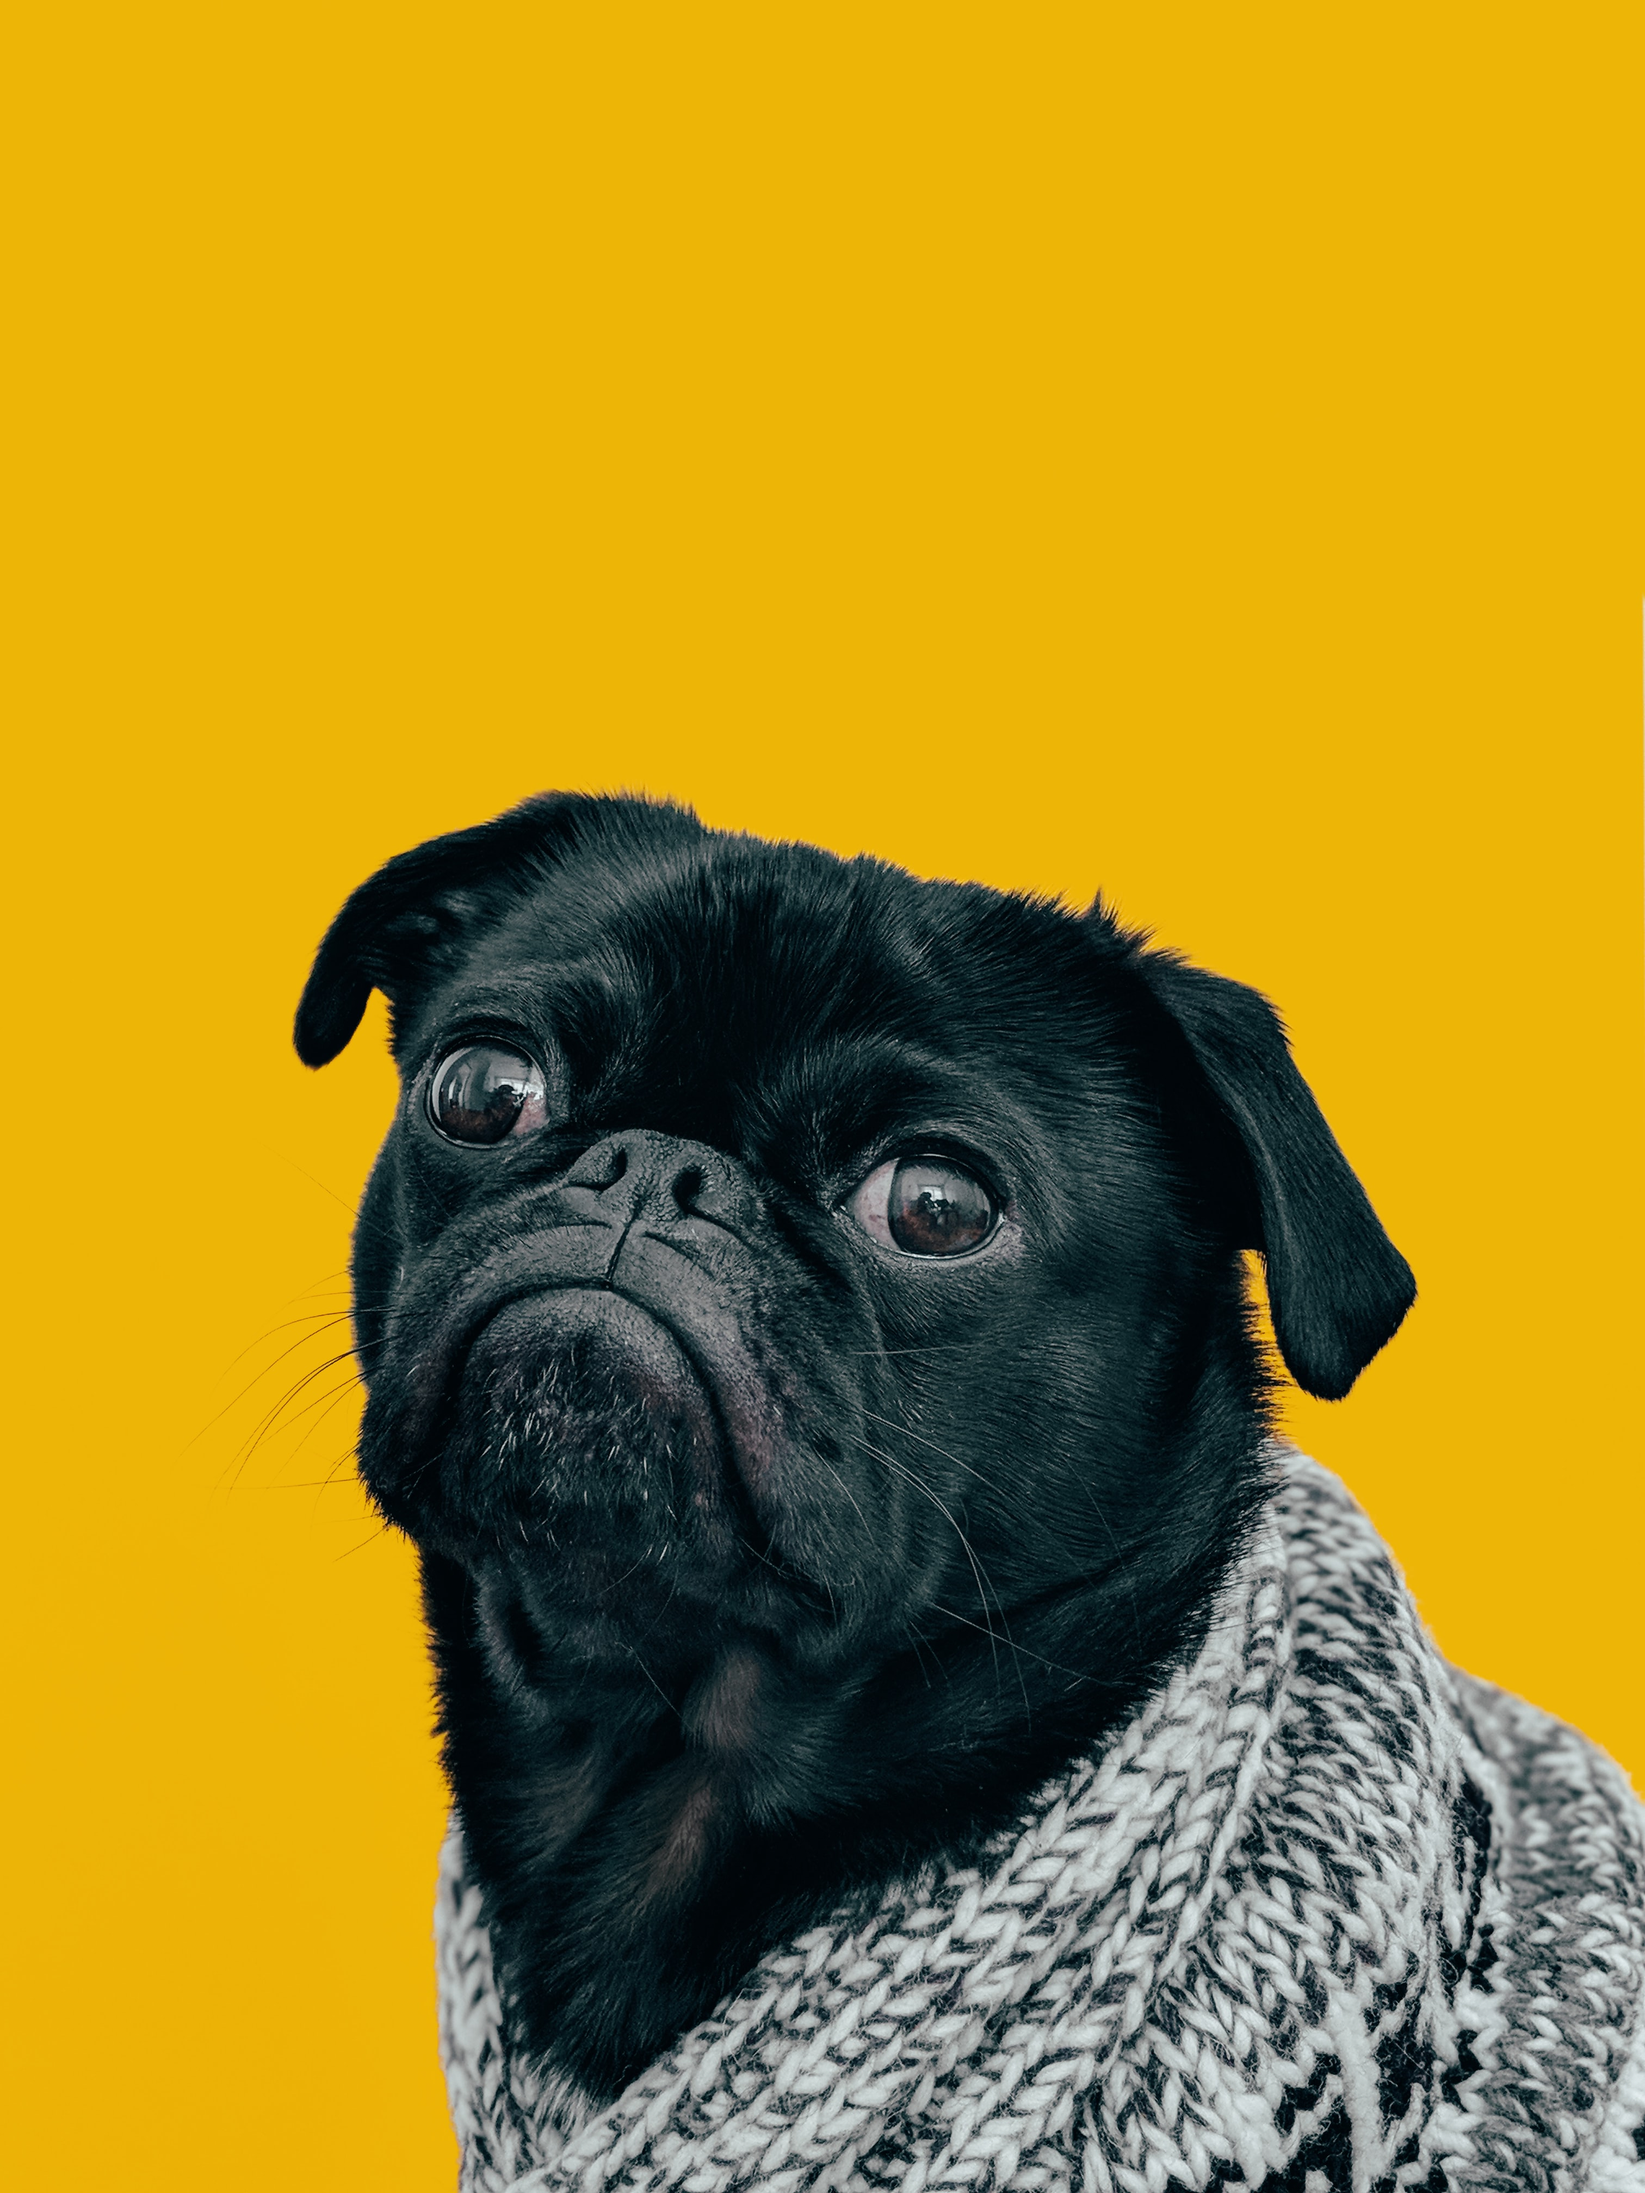
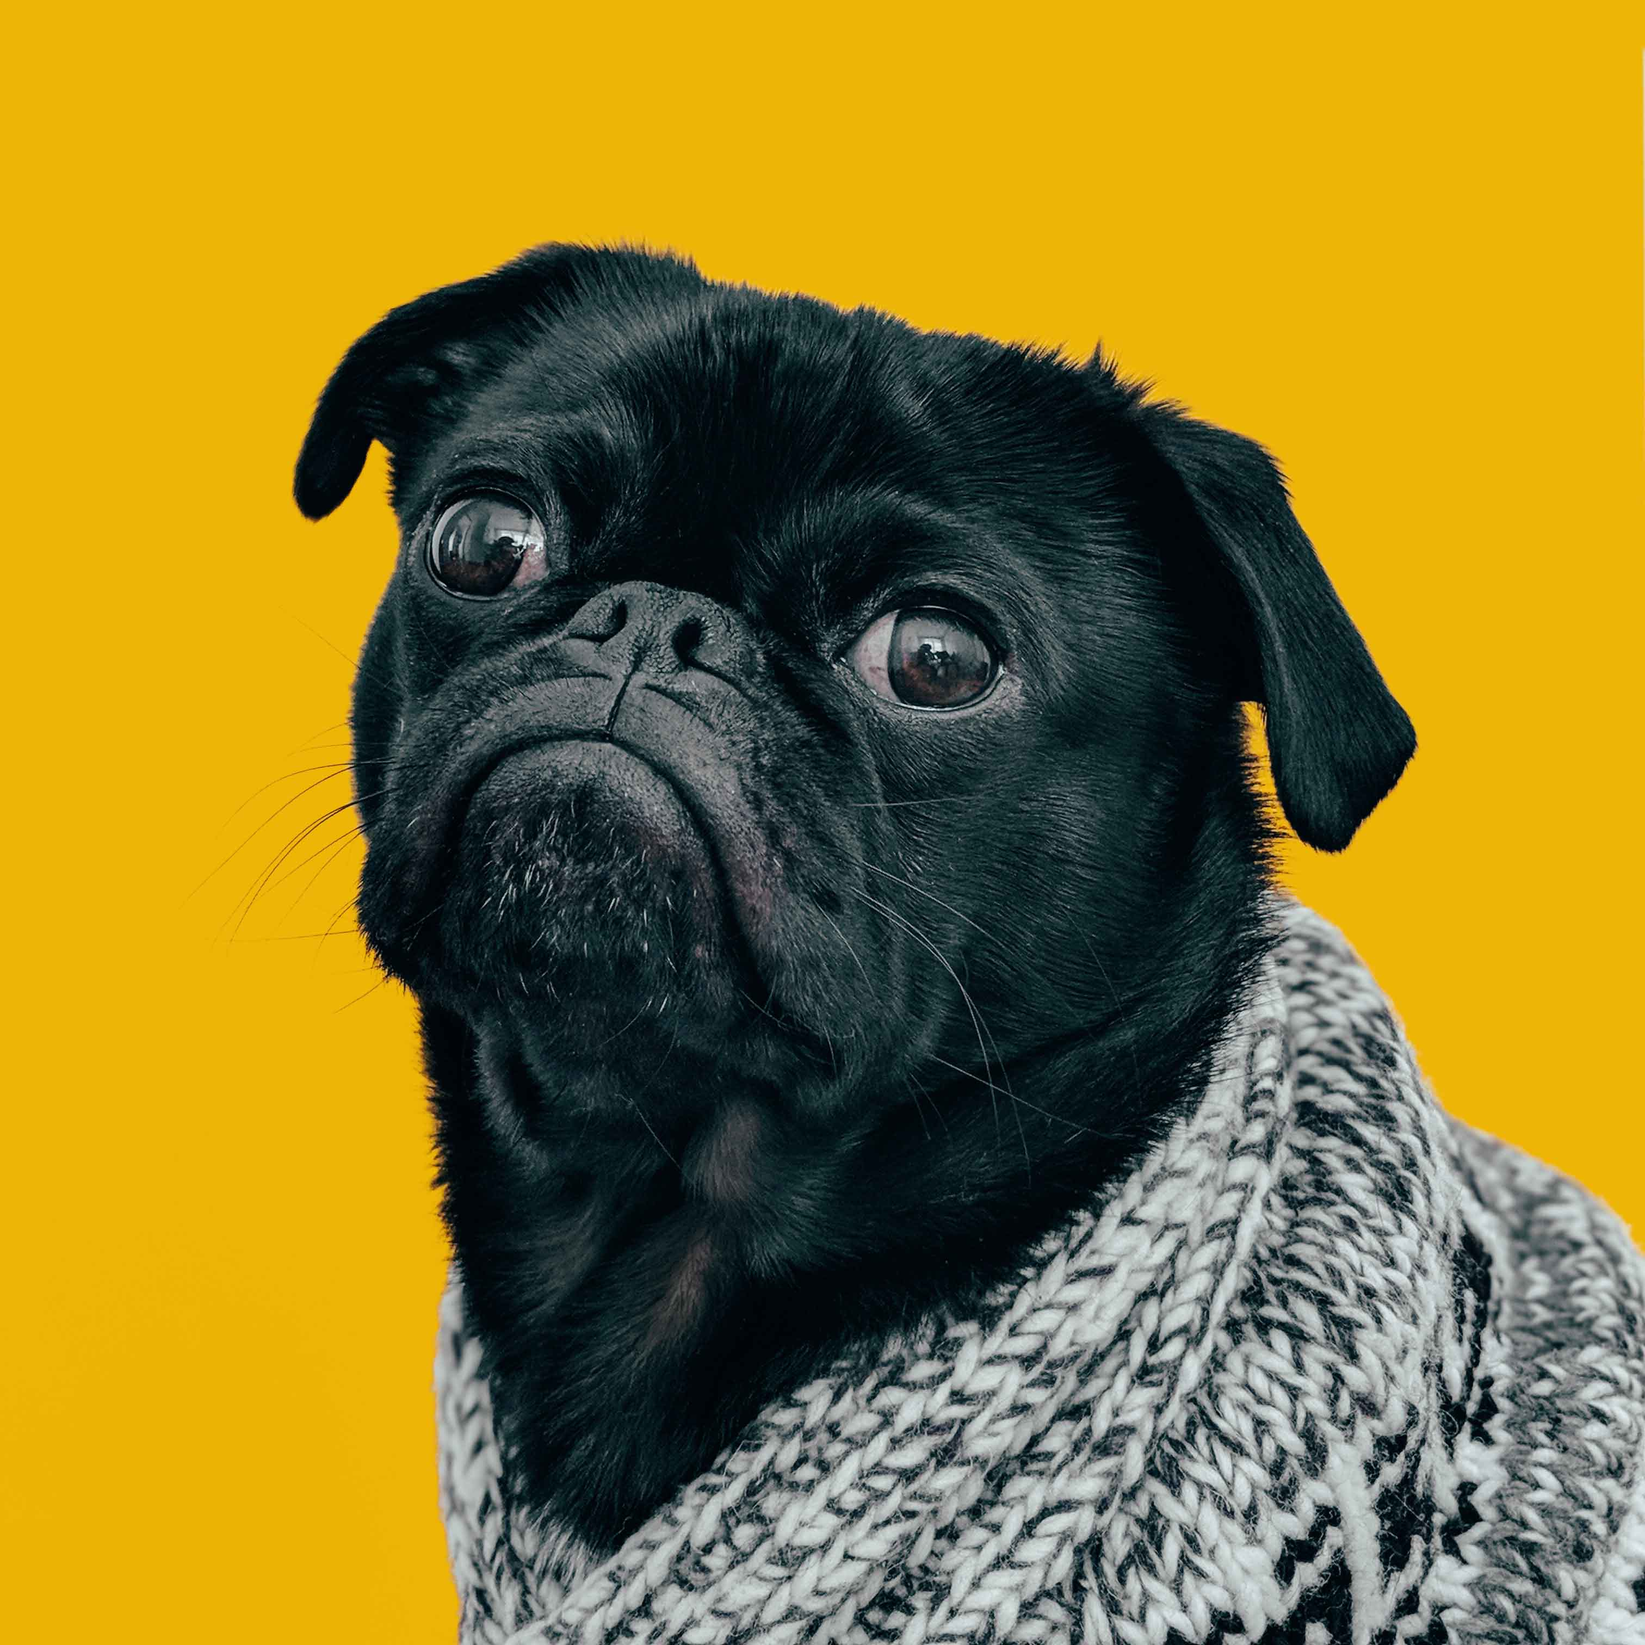
Basic demo

diff --git a/demos/create_and_rate/basic/experiment.py b/demos/create_and_rate/basic/experiment.py
@@ -1,5 +1,4 @@
 # pylint: disable=unused-import,abstract-method,unused-argument
-
 ##########################################################################################
 # Imports
 ##########################################################################################
@@ -9,7 +8,7 @@ import psynet.experiment
 from psynet.consent import NoConsent
 from psynet.modular_page import ImagePrompt, ModularPage, PushButtonControl, TextControl
 from psynet.page import SuccessfulEndPage
-from psynet.timeline import Timeline
+from psynet.timeline import Timeline, switch
 from psynet.trial.create_and_rate import (
     CreateAndRateNode,
     CreateAndRateTrialmakerMixin,
@@ -26,22 +25,18 @@ logger = get_logger()
 def animal_prompt(text, img_url):
     return ImagePrompt(
         url=img_url,
-        text=Markup(
-            text
-            + """
-            <style>
-            img {
-            max-width: 500px; max-height: 500px; margin: 0 auto;
-            }
-            """
-        ),
-        width="100%",
-        height="auto",
+        text=Markup(text),
+        width="300px",
+        height="300px",
     )
 
 
 class CreateTrial(ImitationChainTrial, CreateTrialMixin):
     time_estimate = 5
+
+    def __init__(self, experiment, node, participant, *args, **kwargs):
+        super().__init__(experiment, node, participant, *args, **kwargs)
+        CreateTrialMixin.__init__(self, experiment, node, participant, *args, **kwargs)
 
     def show_trial(self, experiment, participant):
         return ModularPage(
@@ -57,22 +52,18 @@ class SingleRateTrial(ImitationChainTrial, RateTrialMixin):
 
     def __init__(self, experiment, node, participant, *args, **kwargs):
         super().__init__(experiment, node, participant, *args, **kwargs)
-        super(RateTrialMixin, self).__init__()
+        RateTrialMixin.__init__(self, experiment, node, participant, *args, **kwargs)
 
     def show_trial(self, experiment, participant):
         assert self.trial_maker.target_selection_method == "load_balanced"
-        import pydevd_pycharm
 
-        pydevd_pycharm.settrace(
-            "localhost", port=2343, stdoutToServer=True, stderrToServer=True
-        )
-        assert len(self.targets) == 1
-        target = self.targets[0]
+        assert len(self.var.targets) == 1
+        target = self.var.targets[0]
         creation = self.get_target_answer(target)
         return ModularPage(
             "rate_trial",
             animal_prompt(
-                text=f"How well does this description match the animal? ({creation})",
+                text=f"How well does this description match the animal?<br><strong>{creation}</strong>",
                 img_url=self.context["img_url"],
             ),
             PushButtonControl(
@@ -88,11 +79,11 @@ class SelectTrial(ImitationChainTrial, SelectTrialMixin):
 
     def __init__(self, experiment, node, participant, *args, **kwargs):
         super().__init__(experiment, node, participant, *args, **kwargs)
-        super(SelectTrial, self).__init__()
+        SelectTrialMixin.__init__(self, experiment, node, participant, *args, **kwargs)
 
     def show_trial(self, experiment, participant):
-        eids = [self.get_eid(target) for target in self.targets]
-        answers = [self.get_target_answer(target) for target in self.targets]
+        eids = [self.get_eid(target) for target in self.var.targets]
+        answers = [self.get_target_answer(target) for target in self.var.targets]
         return ModularPage(
             "select_trial",
             animal_prompt(
@@ -106,30 +97,12 @@ class SelectTrial(ImitationChainTrial, SelectTrialMixin):
         )
 
 
-start_nodes = [CreateAndRateNode(context={"img_url": "static/dog.jpg"})]
-
-
 class CreateAndRateTrialmaker(ImitationChainTrialMaker, CreateAndRateTrialmakerMixin):
-    def __init__(
-        self,
-        num_creators,
-        num_raters,
-        node_class,
-        creator_class,
-        rater_class,
-        mixin_kwargs,
-        trial_maker_kwargs,
-    ):
-        CreateAndRateTrialmakerMixin.__init__(
-            self,
-            num_creators,
-            num_raters,
-            node_class,
-            creator_class,
-            rater_class,
-            **mixin_kwargs,
+    def __init__(self, **kwargs):
+        trial_maker_kwargs, mixin_kwargs = self.split_kwargs(
+            kwargs, ImitationChainTrialMaker, CreateAndRateTrialmakerMixin
         )
-        trial_maker_kwargs = self.update_trial_maker_kwargs(trial_maker_kwargs)
+        CreateAndRateTrialmakerMixin.__init__(self, **mixin_kwargs)
         super().__init__(**trial_maker_kwargs)
 
     def finalize_trial(self, answer, trial, experiment, participant):
@@ -145,35 +118,89 @@ class CreateAndRateTrialmaker(ImitationChainTrialMaker, CreateAndRateTrialmakerM
 ##########################################################################################
 
 
+def get_trial_maker(option):
+    rater_class = SingleRateTrial
+    num_creators = 2
+    num_raters = 2
+    rate_mode = "rate"
+    include_previous_iteration = True
+    target_selection_method = "load_balanced"
+
+    if option == "include_previous_iteration":
+        num_creators = 1
+        pass
+    elif option == "rate":
+        include_previous_iteration = False
+    elif option == "select":
+        rater_class = SelectTrial
+        num_raters = 3
+        target_selection_method = "all"
+        rate_mode = "select"
+    else:
+        raise ValueError(f"Unknown option: {option}")
+
+    seed_definition = "initial creation" if include_previous_iteration else {}
+    start_nodes = [
+        CreateAndRateNode(context={"img_url": "static/dog.jpg"}, seed=seed_definition)
+    ]
+
+    return CreateAndRateTrialmaker(
+        num_creators=num_creators,
+        num_raters=num_raters,
+        node_class=CreateAndRateNode,
+        creator_class=CreateTrial,
+        rater_class=rater_class,
+        # mixin params
+        include_previous_iteration=include_previous_iteration,
+        rate_mode=rate_mode,
+        target_selection_method=target_selection_method,
+        verbose=True,  # for the demo
+        # trial_maker params
+        id_=option + "_trial_maker",
+        chain_type="across",
+        expected_trials_per_participant=len(start_nodes),
+        max_trials_per_participant=len(start_nodes),
+        start_nodes=start_nodes,
+        chains_per_experiment=len(start_nodes),
+        balance_across_chains=False,
+        check_performance_at_end=True,
+        check_performance_every_trial=False,
+        propagate_failure=False,
+        recruit_mode="n_trials",
+        target_n_participants=None,
+        wait_for_networks=False,
+        max_nodes_per_chain=10,
+    )
+
+
+available_demos = ["include_previous_iteration", "rate", "select"]
+branches = {demo_name: get_trial_maker(demo_name) for demo_name in available_demos}
+
+
 class Exp(psynet.experiment.Experiment):
-    label = "basic"
+    label = "Basic Create and Rate Experiment"
     initial_recruitment_size = 1
 
     timeline = Timeline(
         NoConsent(),
-        CreateAndRateTrialmaker(
-            num_creators=2,
-            num_raters=2,
-            node_class=CreateAndRateNode,
-            creator_class=CreateTrial,
-            rater_class=SingleRateTrial,
-            mixin_kwargs={},
-            trial_maker_kwargs={
-                "id_": "picnic",
-                "chain_type": "across",
-                "expected_trials_per_participant": len(start_nodes),
-                "max_trials_per_participant": len(start_nodes),
-                "start_nodes": start_nodes,
-                "chains_per_experiment": len(start_nodes),
-                "balance_across_chains": False,
-                "check_performance_at_end": True,
-                "check_performance_every_trial": False,
-                "propagate_failure": False,
-                "recruit_mode": "n_trials",
-                "target_n_participants": None,
-                "wait_for_networks": False,
-                "max_nodes_per_chain": 2,
-            },
+        ModularPage(
+            "pick_demo_page",
+            "Pick a demo you are interested in.",
+            PushButtonControl(
+                choices=available_demos,
+                labels=[
+                    "Rate creation + previous iteration",
+                    "Rate two creations",
+                    "Select from two creations + previous iteration",
+                ],
+            ),
+            time_estimate=1,
+        ),
+        switch(
+            "pick_demo_switch",
+            lambda participant: participant.answer,
+            branches=branches,
+            fix_time_credit=False,
         ),
         SuccessfulEndPage(),
     )
